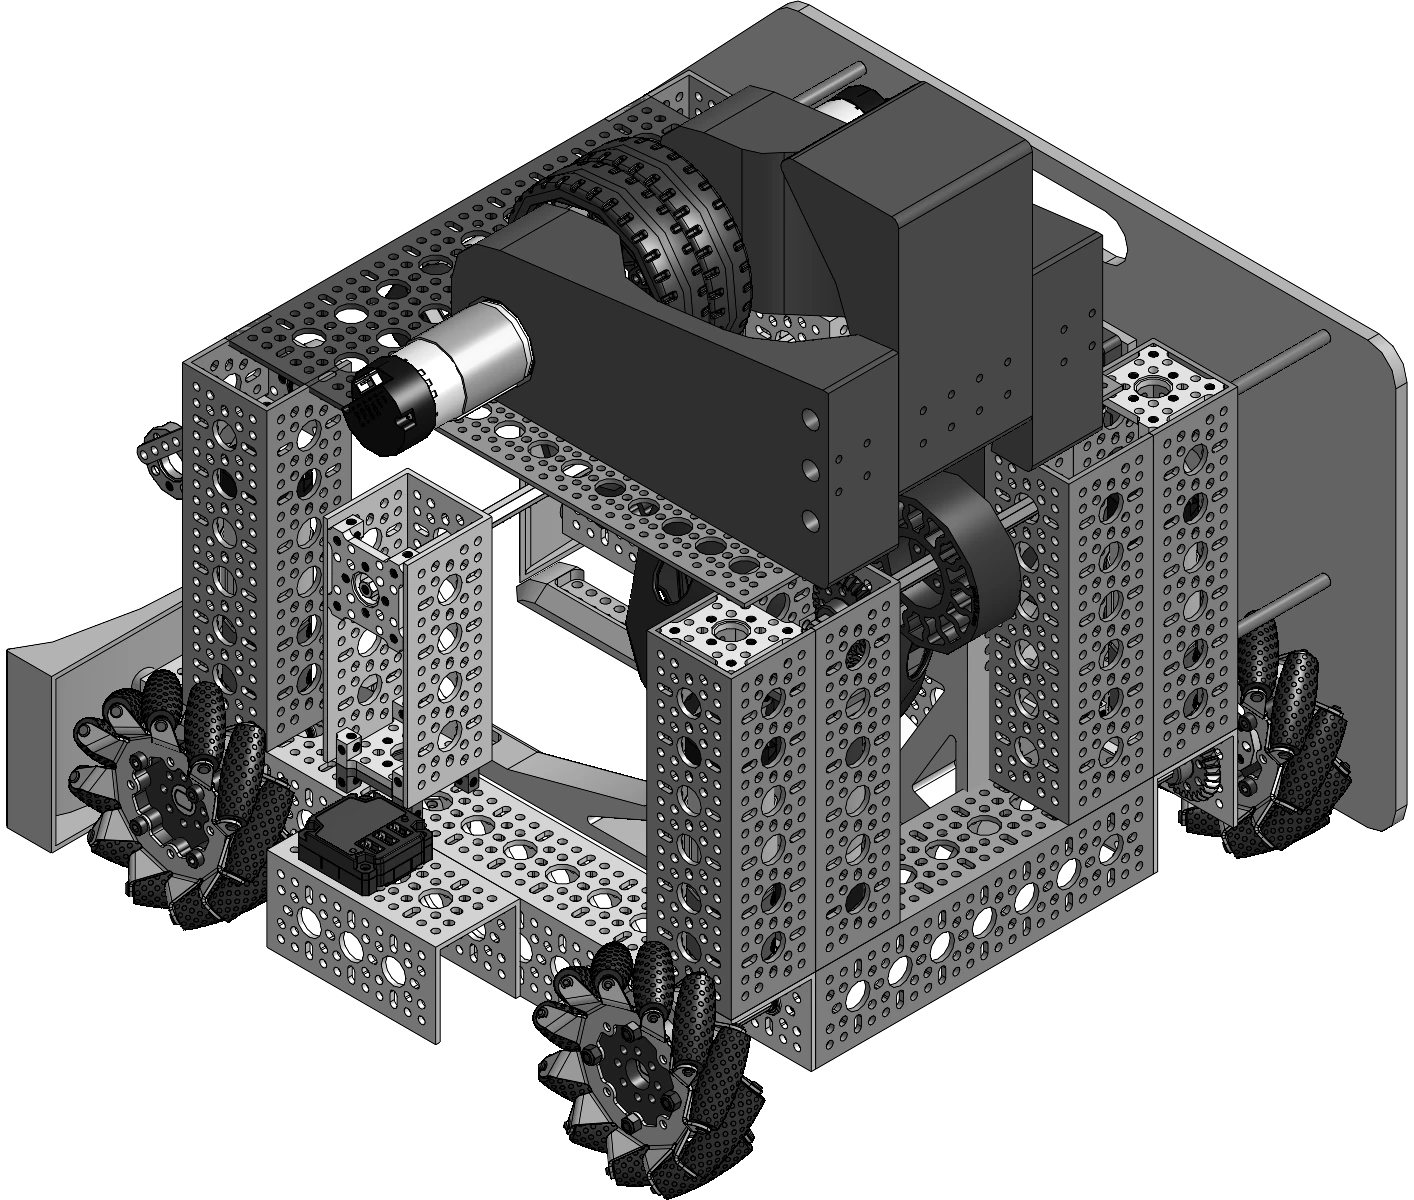
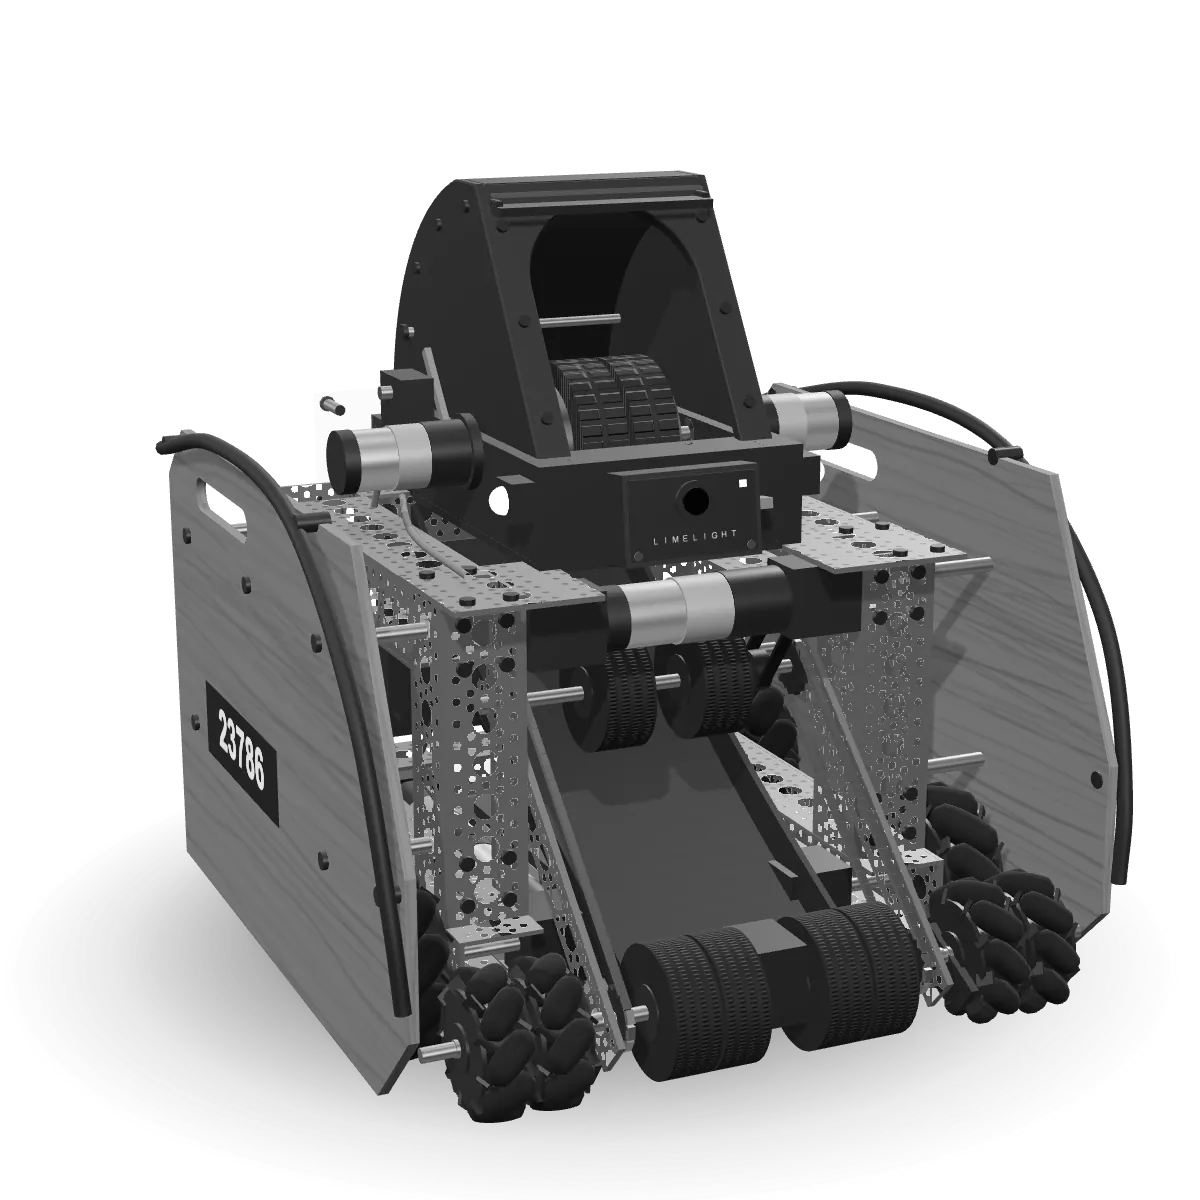
feat(ftc): update In Onshape photo with full Reaper CAD assembly

diff --git a/src/data/projects/reaper.ts b/src/data/projects/reaper.ts
@@ -8,9 +8,7 @@ import type { Project } from "./types";
 // robot scores (artifacts launched into a goal), which every spec row on the page assumes.
 //
 // Photos are the team's, cut from its 2025-26 engineering portfolio by
-// scripts/prepare-ftc-images.mjs. WorldsRobo is the team's Onshape assembly of the robot, and it
-// is incomplete; its caption says only that some parts are missing, since the model's caption
-// higher on the page already says the model is incomplete. The cover is a still of the 3D
+// scripts/prepare-ftc-images.mjs. WorldsRobo is the team's Onshape assembly of the robot. The cover is a still of the 3D
 // model the page draws, so it leads the preview cards; the page itself leaves it off (hideCoverOnPage), because the Mechanisms block opens the
 // page on the same model from the same angle: it draws the page header itself
 // (headerInFirstBlock), with the model in the columns beside it, so the model is on the first
@@ -63,11 +61,11 @@ export const reaper: Project = {
       heading: "In Onshape",
       items: [
         {
-          src: "/ftc/worldsrobo-cad.webp",
-          alt: "An Onshape render of the robot: perforated aluminum channel around a flywheel housing with a gearmotor on its side, mecanum wheels at the corners and a side plate behind.",
-          width: 1414,
+          src: "/ftc/reaper-model-mono.webp",
+          alt: "An Onshape render of Reaper: the complete robot assembly with mecanum drivetrain, compliant-wheel intake, cascading lift, azimuth turret, and hooded flywheel shooter.",
+          width: 1200,
           height: 1200,
-          caption: "WorldsRobo, the team’s Onshape assembly of Reaper. Some parts are missing.",
+          caption: "WorldsRobo, the team’s Onshape assembly of Reaper.",
           tint: true,
         },
       ],

diff --git a/src/components/ftc/ReaperRebuild.module.css b/src/components/ftc/ReaperRebuild.module.css
@@ -187,8 +187,12 @@
   inset: 0;
   width: 100%;
   height: 100%;
-  background: url("/ftc/worldsrobo-cad.webp") center / contain no-repeat;
+  background: url("/ftc/reaper-model-mono.webp") center / contain no-repeat;
   pointer-events: none;
+}
+
+:global(html[data-theme="violet"]) .stillBg {
+  background-image: url("/ftc/reaper-model-violet.webp");
 }
 
 .load {
